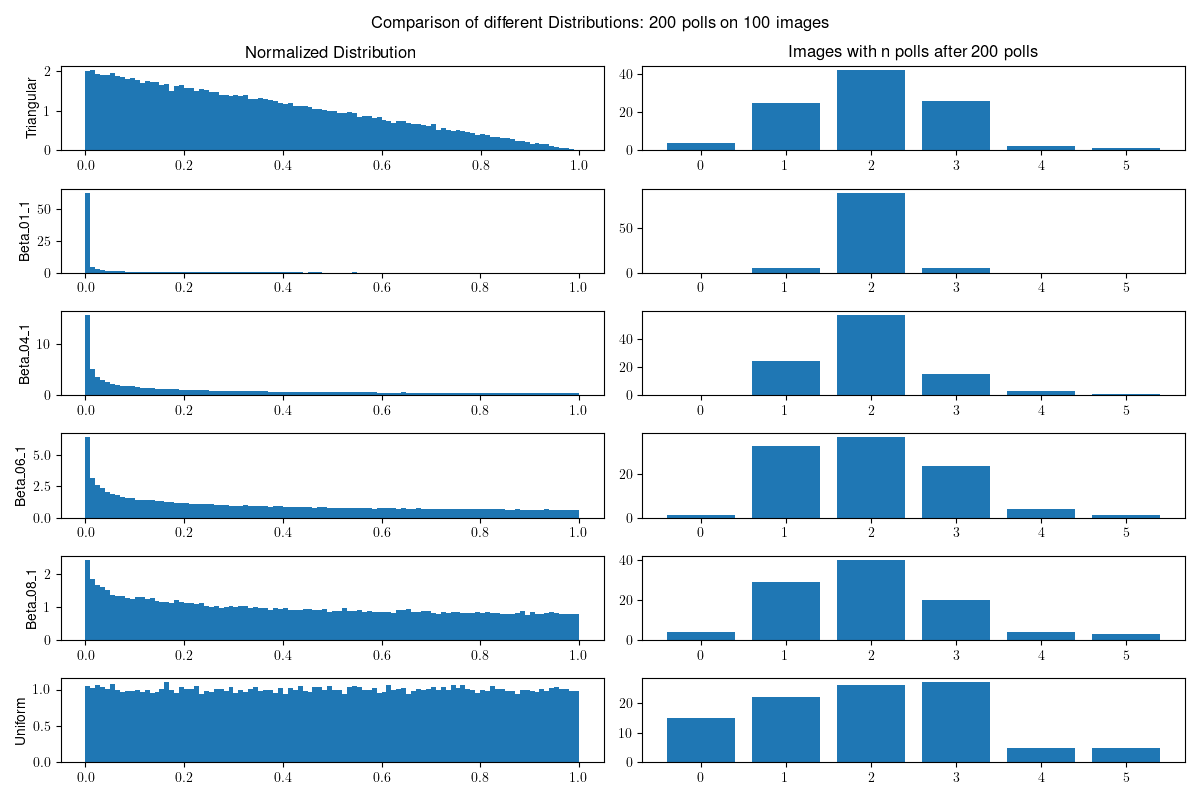
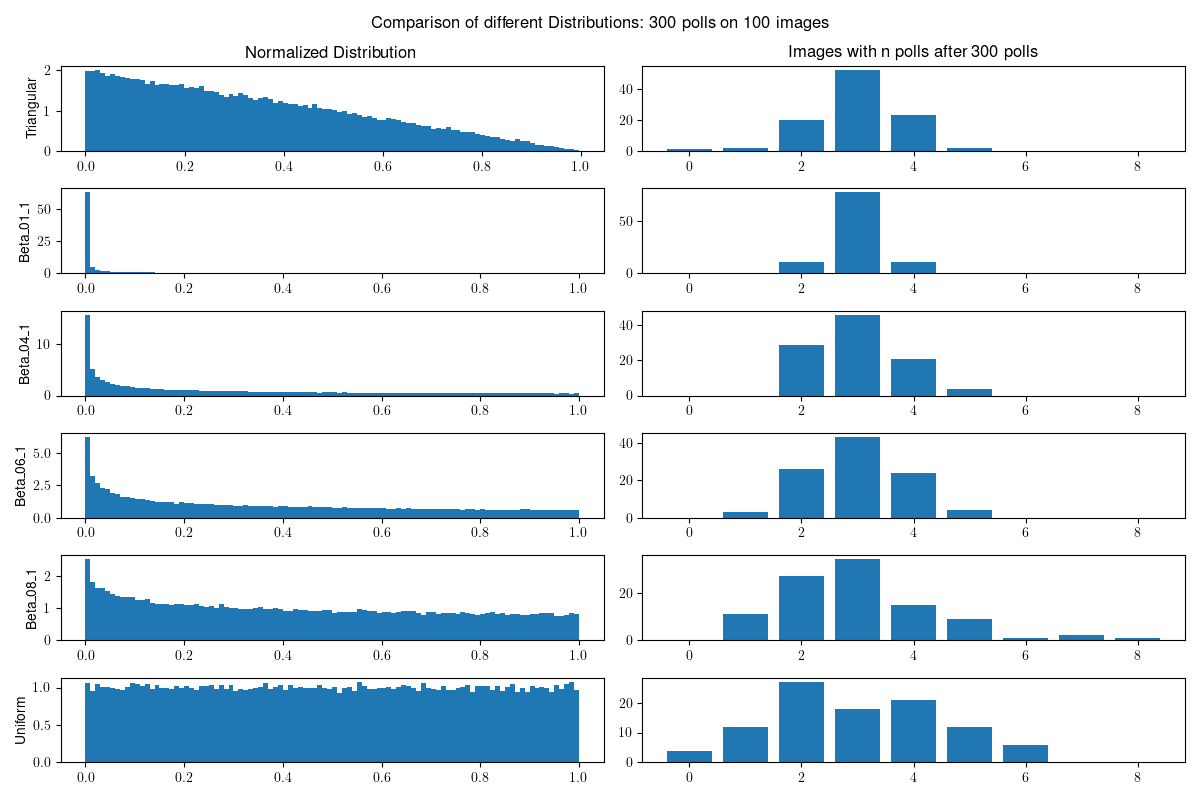
Some minor changes for the docs

diff --git a/tools/compare-distributions/testDist.py b/tools/compare-distributions/testDist.py
@@ -7,7 +7,7 @@ import random
 import matplotlib.pyplot as plt
 
 num_images = 100
-num_polls = 200
+num_polls = 300
 
 plt.rcParams.update({
     "text.usetex": True,
